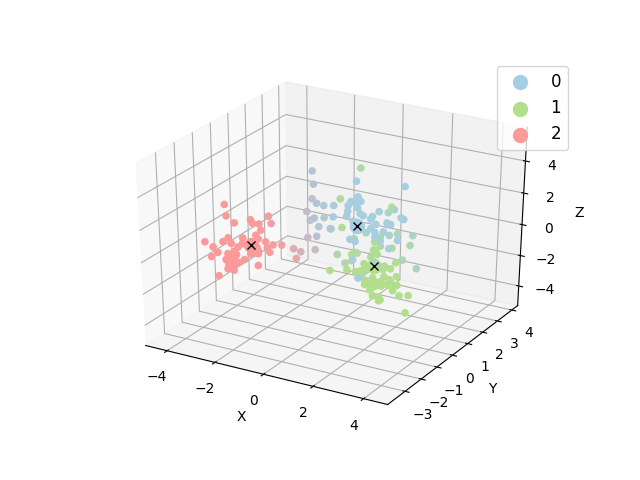
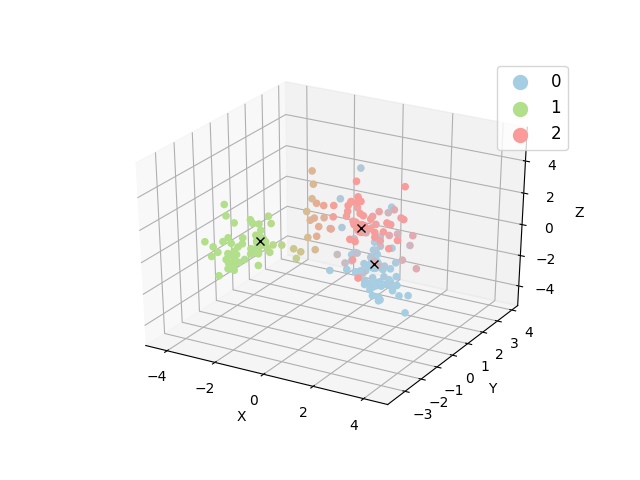
Project - generated more plots

Changed region(s): [[0.3125, 0.3438, 0.6562, 0.6562], [0.625, 0.375, 0.6562, 0.4062]]

diff --git a/project/view.py b/project/view.py
@@ -19,13 +19,13 @@ COLOR_PALLET = np.array([np.array([166, 206, 227]),
 
 def view_result(data, centers, plt_info):
     # Un comment if we want only final result
-    # if len(data[0]) == 3:
-    #     #        plot_3d_data(data, False)
-    #     draw_fuzzy_with_centers(centers, False)
-    plot_info(plt_info)
+    if len(data[0]) == 3:
+        #plot_3d_data(data, False)
+        plot_clusters(centers, 'gs_clusters.png')
+    plot_info(plt_info, 'gstats.png')
 
 
-def plot_info(plt_info, show=True):
+def plot_info(plt_info, file_name=None):
     weights = plt_info[0]
     expected = plt_info[1]
     gaps = plt_info[2]
@@ -40,11 +40,12 @@ def plot_info(plt_info, show=True):
 
     plt.subplot(212)
     plt.stem(rng, gaps[1:])
-    if show:
+    if file_name:
         plt.show()
+        # plt.savefig(file_name)
 
 
-def plot_clusters(centers, show=True):
+def plot_clusters(centers, file_name=None):
     global data_borders
     fig = plt.figure()
     ax = fig.add_subplot(111, projection='3d')
@@ -52,15 +53,17 @@ def plot_clusters(centers, show=True):
         all_features = [obs.features for obs in c.cluster]
         x, y, z = zip(*all_features)
         ax.scatter(x, y, z)
-        ax.scatter(*c.features, marker='*', c='k')
+        x, y, z = c.features
+        ax.plot([x], [y], [z], marker='x', c='k', zorder=10)
     x, y, z = data_borders
     max_axis = max([x[1], y[1], z[1]])
     min_axis = min([x[0], y[0], z[0]])
     plt.xlim(min_axis, max_axis)
     plt.ylim(min_axis, max_axis)
     plt.gca().set_aspect('equal', adjustable='box')
-    if show:
+    if file_name:
         plt.show()
+        # plt.savefig(file_name)
 
 
 def plot_3d_data(data, show=True):
@@ -131,11 +134,10 @@ def draw_fuzzy_with_centers(data, matrix, k, centers, file_name=None, color_indi
 
     ax.legend(loc='upper right', prop={'size': 12})
 
-    if file_name:
-        plt.savefig(file_name)
-        #close_figures()
-    else:
-        plt.show()
+    # if file_name:
+    #     plt.savefig(file_name)
+    #     #close_figures()
+    plt.show()
 
 
 def close_figures():

diff --git a/project/k_means.py b/project/k_means.py
@@ -67,13 +67,17 @@ class Kmeans(object):
 
     def find_centers(self):
         if not any(self._centers):
-            self.randomize_centers()
+            self.randomize_centers_pp()
         else:
             self.find_new_centers()
         self.mark_centers()
         self.scatter()
 
     def randomize_centers(self):
+        chosen_centers = list(np.random.choice(self.observations, self.k, replace=False))
+        self._centers = chosen_centers
+
+    def randomize_centers_pp(self):
         """
         Randomizing centers with a kmeans++ initialization.
         probabilty = D(x)^2 where D(x) is distance from closest center.
@@ -132,16 +136,16 @@ class Kmeans(object):
         while not self._finished:
             iteration += 1
             self.find_centers()
-            if self._plot:
-                centers = [c.features for c in self._centers]
+        if self._plot:
+            centers = [c.features for c in self._centers]
 
-                tmp = self._membership_mat.sum(axis=1)
-                if tmp.max() > 1:
-                    print('Max tmp = %s' % tmp.max())
-                # Preparing the plots
-                file_name = self._file_name.format(iteration=iteration)
+            tmp = self._membership_mat.sum(axis=1)
+            if tmp.max() > 1:
+                print('Max tmp = %s' % tmp.max())
+            # Preparing the plots
+            file_name = self._file_name.format(iteration=iteration)
 
-                view.draw_fuzzy_with_centers(self._org_data, self._membership_mat, self.k,
-                                             centers=centers, file_name=file_name,
-                                             color_indices=self._colors_indices)
+            view.draw_fuzzy_with_centers(self._org_data, self._membership_mat, self.k,
+                                         centers=centers, file_name=file_name,
+                                         color_indices=self._colors_indices)
         return self._centers

diff --git a/project/statistical_gap.py b/project/statistical_gap.py
@@ -49,7 +49,10 @@ def inner_weights(k, data, weights):
     :param weights: target list.
     :return:    None
     """
-    kmean = k_means.Kmeans(k, data)
+    # if k in [2, 3, 7]:
+    #     kmean = k_means.Kmeans(k, data, plot=True)
+    # else:
+    kmean = k_means.Kmeans(k, data, plot=False)
     centers = kmean.clusterize()
     weight = general_distance(centers)
     weights[k] += weight
@@ -78,7 +81,7 @@ def calc_expected(n, frame, k_max, iterations=40):
 
     for i in range(iterations):
         pool.apply_async(monte_carlo_iteration, args=(n, frame, k_max, expected, i))
-        #monte_carlo_iteration(n, frame, k_max, expected, i)
+        # monte_carlo_iteration(n, frame, k_max, expected, i)
         
     pool.close()
     pool.join()
@@ -100,7 +103,7 @@ def gap_statistic(data):
     """
     sg_logger.info("finding the best k")
     mg = mp.Manager()
-    n = len(data)
+    n = len(data) * 2
     k_max = min([12, n])
     weights = mg.list([0.0] * k_max)
     gaps = mg.list([0.0] * k_max)
@@ -127,7 +130,7 @@ def gap_statistic(data):
         gaps[i] = expected[i] - weights[i]
 
     k = gaps.index(max(gaps))
-    km = k_means.Kmeans(k, data, plot=True)
+    km = k_means.Kmeans(k, data, plot=False)
     centers = km.clusterize()
     plot_info = (weights, expected, gaps)
     return k, plot_info, centers

diff --git a/project/datasets_test.py b/project/datasets_test.py
@@ -2,6 +2,7 @@ from __future__ import division, print_function
 from sklearn import datasets, preprocessing, decomposition
 
 from statistical_gap import gap_statistic as gs
+from k_means import Kmeans
 import xlrd
 import view
 import data_generator as dg
@@ -32,25 +33,27 @@ def test_iris():
     iris_dat = datasets.load_iris()
     data = iris_dat.data
     target = iris_dat.target
-    test_data(data, target)
+    test_data(data, expected_k=3, target=target)
 
 
 def test_digits():
     digits_dat = datasets.load_digits()
     data = digits_dat.data
     target = digits_dat.target
-    test_data(data, target)
+    test_data(data, expected_k=10, target=target)
 
 
 def test_wine():
     wine_dat = datasets.load_wine()
     data = wine_dat.data
     target = wine_dat.target
-    test_data(data, target)
+    test_data(data, expected_k=3, target=target)
 
 
-def test_data(data, target=None):
+def test_data(data, expected_k, target=None):
     data = _get_3most_dominant_features(data)
+    # kmeans_alg = Kmeans(expected_k, data, plot=True)
+    # centers = kmeans_alg.clusterize()
     k, plot_info, centers = gs(data)
     print("the returned k is : {}".format(k))
     view.view_result(data, centers, plot_info)
